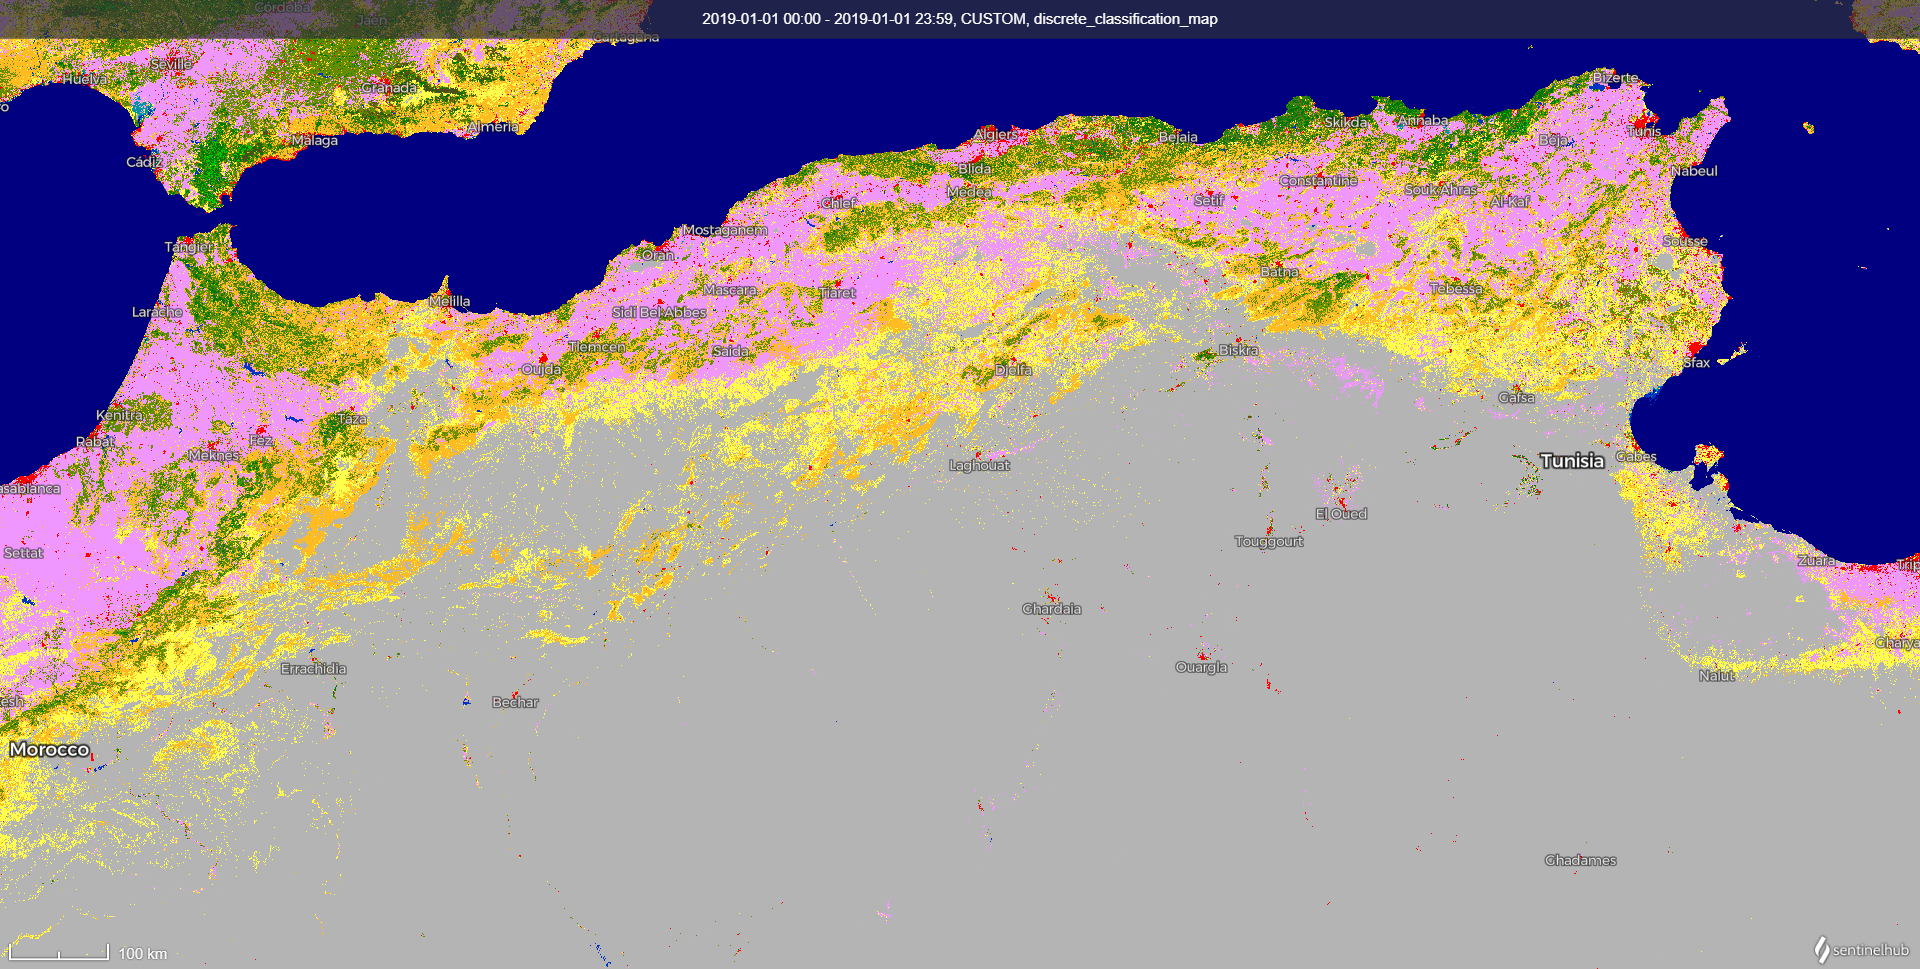
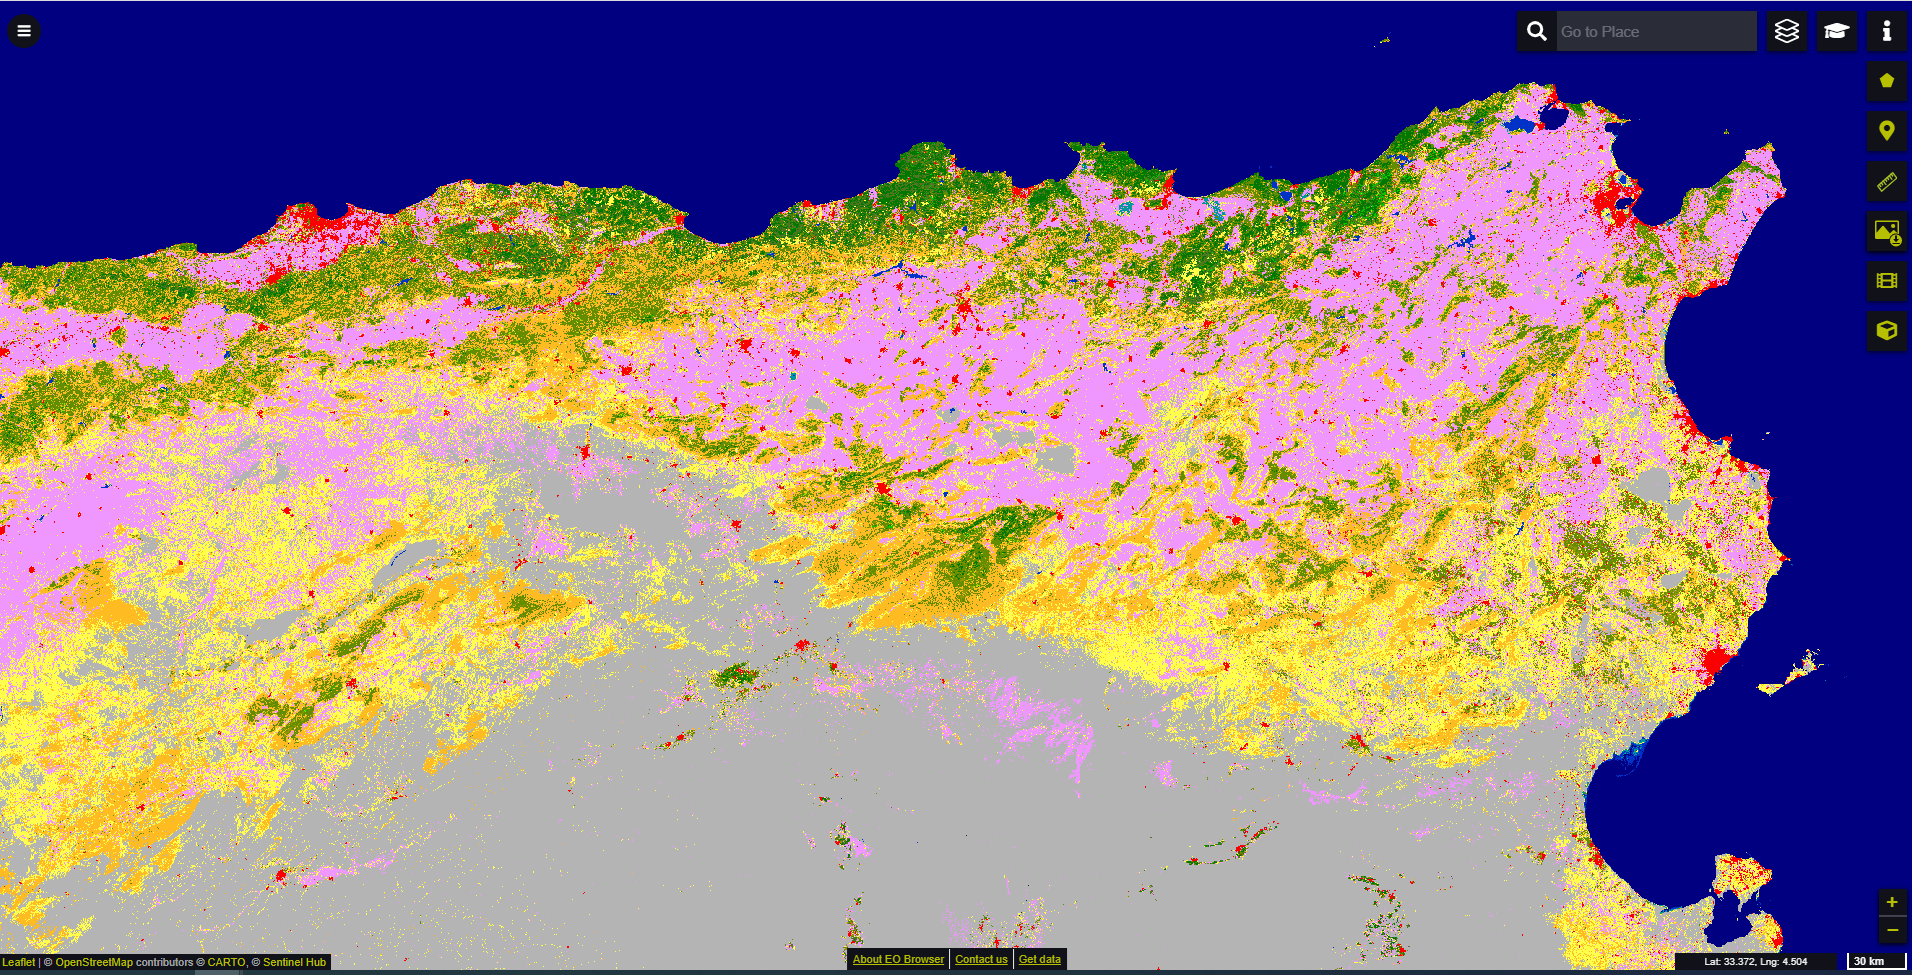
changes to global land cover readme

diff --git a/collections/global-land-cover/readme.md b/collections/global-land-cover/readme.md
@@ -1,10 +1,9 @@
 # Global Land Cover
 
 ## Short description
-Dynamic Global Land Cover products at 100 m resolution (CGLS-LC100) are delivered annually by [the global component of the Copernicus Land Service](https://land.copernicus.eu/global/products/lc).
-These Land Cover products provide a primary land cover scheme at three classification levels with class definitions according to the Land Cover Classification System ([LCCS](http://www.fao.org/3/x0596e/x0596e00.htm)) scheme including continuous field layers or “fraction maps” for all basic land cover classes that provide proportional estimates for vegetation/ground cover for the land cover types. This continuous classification scheme may depict areas of heterogeneous land cover better than the standard classification scheme and, as such, can be tailored for application use (e.g. forest monitoring, rangeland management, crop monitoring, biodiversity and conservation, monitoring environment and security, climate modelling, etc.)
-
-Land Cover maps (v3.0.1) are provided for the period 2015-2019 with global coverage and are derived from PROBA-V 100 m satellite observations, high quality land cover training sites and ancillary datasets e.g shoreline masks. Yearly updates from 2020 are planned to be generated from the combination of Sentinel-1 and Sentinel-2 satelllite observations.
+Global Land Cover products at 100 m resolution are delivered annually by [the global component of the Copernicus Land Service](https://land.copernicus.eu/global/products/lc).  
+The most recent collection 3 (version 3.0.1) of 100 m Land Cover products for the years 2015 - 2019 were generated from the PROBA-V 100 m and 300 m satellite observations and several other ancillary datasets with global coverage. As from 2020, (2019-conso and 2020-nrt products) are planned to be generated from the combination of Sentinel-1 and Sentinel-2 satellite observations following end of PROBA-V operations.   
+These Land Cover products provide a main discrete land cover classification map according to UN-FAO [LCCS](http://www.fao.org/3/x0596e/x0596e00.htm). Additional continuous  fractional layers for all basic land cover classes which give the percentage of a 100 m pixel that is filled with a specific land cover class, are also included in the Land Cover products to provide more detailed information on each land cover class.  
 
 
 
@@ -20,15 +19,17 @@ Land Cover maps (v3.0.1) are provided for the period 2015-2019 with global cover
 
 ## Geographical coverage
 
-Global. They cover the land surface area with longitude from 180°W to 180°E and latitude from 78.25°N to 60°S.
+Global. land surface area with longitude from 180°W to 180°E and latitude from 78.25°N to 60°S.
 
 
 ## Update frequency
 
-A new product is generated annually using an 'epoch'. Where an epoch consists of 3 years input data (one year before and one year after the reference year) in three processing modes. See [Product User Manual](https://land.copernicus.eu/global/sites/cgls.vito.be/files/products/CGLOPS1_PUM_LC100m-V3_I3.3.pdf) for more details.
+A new product is generated annually using an 'epoch', where an epoch consists of 3 years input data (one year before and one year after the reference year) in three processing modes. 
 - **base** maps for epoch 2015, that serves as reference for the classifier and regression models,
-- **consolidated** maps (epochs 2016, 2017 and 2018) with full years of prior and pastor data and
-- the **near-real time** (nrt, 2019) maps with one year prior and only three months pastor data.
+- **consolidated** maps (2016, 2017, 2018) one year before and one year after the reference year
+-  **near-real time** maps (2019) with one year prior and only three months data of the reference year. 
+
+See [Product User Manual](https://land.copernicus.eu/global/sites/cgls.vito.be/files/products/CGLOPS1_PUM_LC100m-V3_I3.3.pdf) for more details.
 
 ## Temporal availability
 The following epochs are available:
@@ -44,10 +45,10 @@ The following epochs are available:
 
 ## Band information
 
-The available bands include: a main discrete classification with 23 classes aligned with UN-FAO's Land Cover Classification System, a set of versatile cover fractions: percentage (%) of ground cover for the 10 main classes, a forest type layer, quality layers on input data density and on the confidence of the detected land cover change (only delivered for maps produced in conso or nrt mode).
+The available bands include: a main discrete classification with 23 classes aligned with UN-FAO's Land Cover Classification System, Cover fraction percentage of ground cover for the 10 main classes, a forest type layer, quality layers on input data density and on the confidence of the detected land cover change (only delivered for maps produced in conso or nrt mode)    
+Reference: [Product User Manual](https://land.copernicus.eu/global/sites/cgls.vito.be/files/products/CGLOPS1_PUM_LC100m-V3_I3.3.pdf)
 
-
-Table 1: Bands
+Table 1: Bands 
 
 
 <table>
@@ -55,8 +56,7 @@ Table 1: Bands
     <tr>
       <th>Name</th>
       <th>Units</th>
-      <th>Min</th>
-	    <th>Max</th>
+      <th>Values</th>
 	    <th>Description</th>
     </tr>
   </thead>
@@ -64,112 +64,97 @@ Table 1: Bands
     <tr>
       <td>Discrete_Classification_map </td>
       <td > </td>
-      <td>0</td>
-	    <td>200 </td>
+      <td>0 - 200</td>
 	    <td> main discrete land cover classification according to FAO LCCS scheme </td>
     </tr>
     <tr>
       <td>Discrete_Classification_proba</td>
       <td > % </td>
-      <td>0</td>
-	    <td>100 </td>
+      <td>0 - 100</td>
 	    <td> Classification probability, a quality indicator for the discrete classification</td>
     </tr>
     <tr>
       <td>Forest_Type_layer</td>
       <td > </td>
-      <td>0</td>
-      <td >5</td>
+      <td>0 - 5 </td>
       <td>Forest type for all pixels where tree cover fraction is bigger than 1 %</td>
     </tr>
     <tr>
       <td>Bare_CoverFraction_layer</td>
       <td > %</td>
-      <td > 0</td>
-      <td > 100</td>
+      <td >0 - 100</td>
       <td> Fractional cover (%) for the bare and sparse vegetation class</td>
     </tr>
     <tr>
       <td>Crops_CoverFraction_layer</td>
       <td >% </td>
-      <td>0</td>
-	    <td>100 </td>
+      <td>0 - 100</td>
 	    <td> Fractional cover (%) for the cropland class</td>
     </tr>
     <tr>
       <td>Grass_CoverFraction_layer</td>
       <td >% </td>
-      <td>0</td>
-	    <td>100 </td>
+      <td>0 - 100</td>
 	    <td> Fractional cover (%) for the herbaceous vegetation class</td>
     </tr>
     <tr>
       <td>MossLichen_CoverFraction_layer</td>
       <td > %</td>
-      <td>0</td>
-	    <td>100 </td>
+      <td>0 - 100 </td>
 	    <td> Fractional cover (%) for the moss & lichen class</td>
     </tr>
     <tr>
       <td>Shrub_CoverFraction_layer</td>
       <td > % </td>
-      <td>0</td>
-      <td>100 </td>
+      <td>0 - 100</td>
       <td> Fractional cover (%) for the shrubland class</td>
     </tr>
     <tr>
       <td>Snow_CoverFraction_layer</td>
       <td > %</td>
-      <td>0</td>
-	    <td>100 </td>
+      <td>0 - 100</td>
 	    <td> Fractional cover (%) for the snow & ice class</td>
     </tr>
     <tr>
       <td>Tree_CoverFraction_layer</td>
       <td > %</td>
-      <td>0</td>
-	    <td>100 </td>
+      <td>0 - 100</td>
 	    <td> Fractional cover (%) for the forest class</td>
     </tr>
     <tr>
       <td>BuiltUp_CoverFraction_layer</td>
       <td >% </td>
-      <td>0</td>
-	    <td>100 </td>
+      <td>0 - 100</td>
 	    <td> Fractional cover (%) for the built-up class</td>
     </tr>
     <tr>
       <td>PermanentWater_CoverFraction_layer</td>
       <td > %</td>
-      <td>0</td>
-	    <td>100 </td>
+      <td>0 - 100</td>
 	    <td> Fractional cover (%) for the permanent inland water bodies class</td>
     </tr>
     <tr>
       <td>SeasonalWater_CoverFraction_layer</td>
       <td >% </td>
-      <td>0</td>
-	    <td>100 </td>
+      <td>0 - 100</td>
 	    <td> Fractional cover (%) for the seasonal inland water bodies class</td>
     </tr>
     <tr>
       <td>DataDensityIndicator</td>
       <td > </td>
-      <td>0</td>
-	    <td>100 </td>
-	    <td> Data density indicator showing quality of the EO input data between 0 – 100 (0 = bad, 100 = perfect data)</td>
+      <td>0 - 100</td>
+	    <td> Data density indicator showing quality of the EO input data  (0 = bad, 100 = perfect data)</td>
     </tr>
     <tr>
       <td>Change_Confidence_layer</td>
       <td > </td>
-      <td>0</td>
-	    <td>3 </td>
+      <td>0 - 3</td>
 	    <td> Quality layer regarding the change detection of the current mapped year to the previous mapped year. It is a 3 level confidence mask for all CONSO and NRT maps with value definitions as:
         <ul>
-          <li>0 = No change. No change in discrete class between year and previous year detected.</li>
-          <li>1 - Potential confidence. BFASTmon detected break in second half of NRT year  - potential change.</li>
-          <li>2 - Medium confidence. Imprint of urban, permanent water, snow or wetland OR change detected by BFAST but HMM model didn’t confirm this break in higher resolution OR change detected by BFASTmon in the first half of NRT year.</li>
-          <li>3 = High confidence. BFAST detected a change and HMM confirmed this change in higher resolution.</li>
+          <li>0 = No change.</li>
+          <li>1 - Potential confidence.</li>
+          <li>2 - Medium confidence.</li>
+          <li>3 = High confidence.</li>
         </ul>
         NOTE: The values of Change_Confidence_layer band in 2015 data are not shown correctly, therefore this band in 2015 data should not be used.
       </td>
@@ -343,52 +328,36 @@ Table 3: Forest_Type_Layer classes
   <thead>
     <tr>
       <th>Value</th>
-      <th>Color</th>
-      <th>Color Code</th>
 	    <th>Label</th>
     </tr>
   </thead>
   <tbody>
     <tr>
       <td>0 </td>
-      <td style="background-color:#282828"></td>
-	    <td> 0x282828 </td>
 	    <td> Unknown, doesn’t match any of the other types </td>
     </tr>
     <tr>
       <td>1</td>
-      <td style="background-color:#666000"></td>
-	    <td>0x666000 </td>
 	    <td> Evergreen needle leaf </td>
     </tr>
     <tr>
       <td>2</td>
-      <td style="background-color:#009900"></td>
-	    <td> 0x009900 </td>
 	    <td> Evergreen broad leaf </td>
     </tr>
     <tr>
       <td>3</td>
-      <td style="background-color:#70663e"></td>
-	    <td> 0x70663e  </td>
 	    <td> Deciduous needle leaf </td>
     </tr>
     <tr>
       <td>4</td>
-      <td style="background-color:#a0dc00"></td>
-	    <td> 0xa0dc00 </td>
 	    <td> Deciduous broad leaf </td>
     </tr>
     <tr>
       <td>5</td>
-      <td style="background-color:#929900"> </td>
-	    <td> 0x929900 </td>
 	    <td> Mix of forest type </td>
     </tr>  
     <tr>
       <td>255</td>
-      <td></td>
-	    <td>  </td>
 	    <td> No data </td>
     </tr> 
     
@@ -408,7 +377,7 @@ Table 3: Forest_Type_Layer classes
 
 ![Discrete classification map  for parts of North Africa ](north_africa_discrete_classification.png)
 
-*2019 nrt discrete classification Map for parts of North Africa visualised on EO browser*
+*2019 nrt discrete land cover classification map for parts of North Africa visualised in EO browser*
 
 ![forest type map for Dominican Republic](Dominican_republic_forest_type.png)
 
